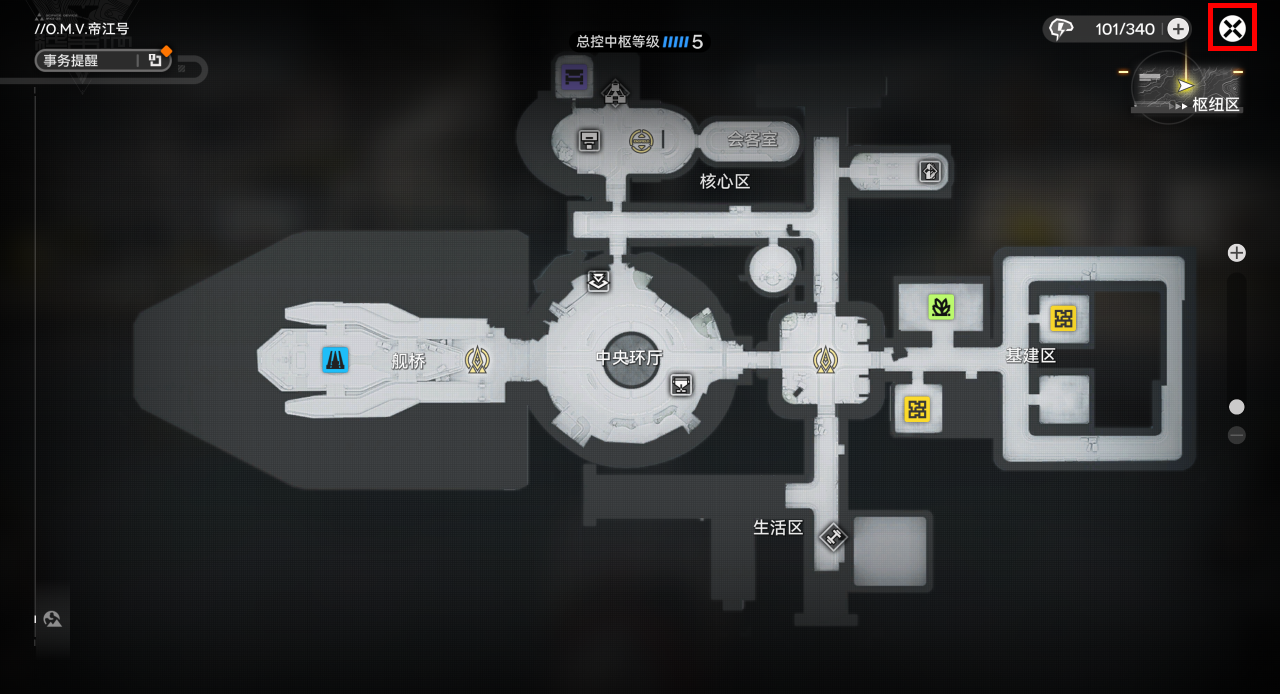
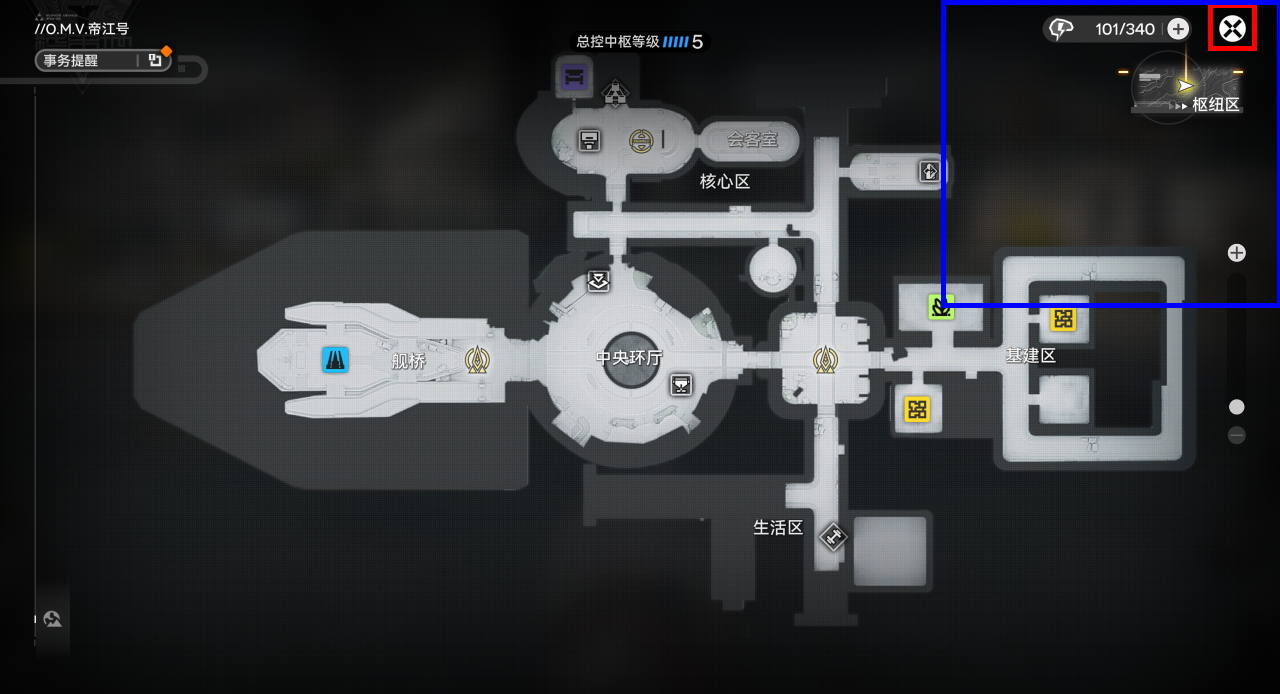
docs: 更新通用按钮文档，修正识别方式和搜索范围的描述，明确区域信息

Changed region(s): [[0.7188, 0.0, 1.0, 0.4539]]

diff --git a/docs/developers/common-buttons.md b/docs/developers/common-buttons.md
@@ -127,8 +127,8 @@
 
 | 项目 | 说明 |
 |------|------|
-| **识别方式** | 在 ROI `[882, 0, 398, 335]`（720p，右上角）内模板匹配，支持多种 X 样式（Type1～Type4）。 |
-| **搜索范围** | **限定区域** ROI `[882, 0, 398, 335]`（720p），仅在该区域内识别，其他位置出现的相同按钮不会点击。 |
+| **识别方式** | 在 ROI `[882, 0, 398, 335]`（720p，蓝色区域）内模板匹配，支持多种 X 样式（Type1～Type4）。 |
+| **搜索范围** | **限定区域** ROI `[882, 0, 398, 335]`（720p），仅在蓝色区域内识别，其他位置出现的相同按钮不会点击。 |
 | **动作** | 单击。 |
 | **使用条件** | 需要关闭**当前界面**且确定**不会出现 ESC 菜单**时使用。若同一场景可能弹出 ESC 菜单，必须使用 `CloseButtonType2`，否则无法关闭 ESC 菜单会导致流程卡死。 |
 
